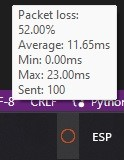
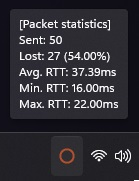
Cleaned up code and updated the screenshots, now test variables are shown during the first test, with an estimated time

diff --git a/PackageTester.py b/PackageTester.py
@@ -147,24 +147,43 @@ def read_settings():
 
     return ping_count, seconds_between_pings, max_response_time, server_to_ping, perfect_threshold, good_threshold, medium_threshold
 
-# Set up system tray icon and context menu
-menu = Menu(MenuItem('Settings', on_right_click_settings),
-            MenuItem('Exit', on_right_click))
 
-icon_path = path.join(path.dirname(path.abspath(__file__)), 'Icons', 'Waiting.png')
-icon = open_image(icon_path)
-tray_icon = Icon('Testing', icon, 'Testing...', menu=menu)
-tray_icon.max_tooltip_width = 350
+def setup_tray_icon():
+    global tray_icon
+    menu = Menu(MenuItem('Settings', on_right_click_settings),
+                MenuItem('Exit', on_right_click))
 
-# Start the ping Thread
-Thread(target=ping_test, args=(tray_icon,)).start()
+    ping_count, seconds_between_pings, max_response_time, server_to_ping, perfect_threshold, good_threshold, medium_threshold = read_settings()
+    estimated_test_time = ping_count * seconds_between_pings
+    ftooltip = (
+            f'[Performing test]\n'
+            f'To: {server_to_ping}\n'
+            f'Pings: {ping_count}\n'
+            f'Interval: {seconds_between_pings}s\n'
+            f'Timeout: {max_response_time}ms\n'
+            f'Est. test time: {estimated_test_time:.1f}s '
+        )
+    icon_path = path.join(path.dirname(path.abspath(__file__)), 'Icons', 'Waiting.png')
+    icon = open_image(icon_path)
+    tray_icon = Icon('Testing', icon, ftooltip, menu=menu)
+    tray_icon.max_tooltip_width = 350
 
-# Run icon on main thread
-try:
-    tray_icon.run()  # Run the system tray icon     
-except Exception as e:
-    print(f"Unexpected error occurred: {e}")
-finally:
-    tray_icon.stop()  # Stop the system tray icon
+    return tray_icon
+
+# Global variables
+settings_changed = True
+stop_ping_test = False
+
+if __name__ == "__main__":
+    # Start the ping Thread
+    tray_icon = setup_tray_icon()
+    Thread(target=ping_test, args=(tray_icon,)).start()
+    try:
+        tray_icon.run()  # Run the system tray icon     
+    except Exception as e:
+        print(f"Unexpected error occurred: {e}")
+    finally:
+        tray_icon.stop()  # Stop the system tray icon
+
     
     
